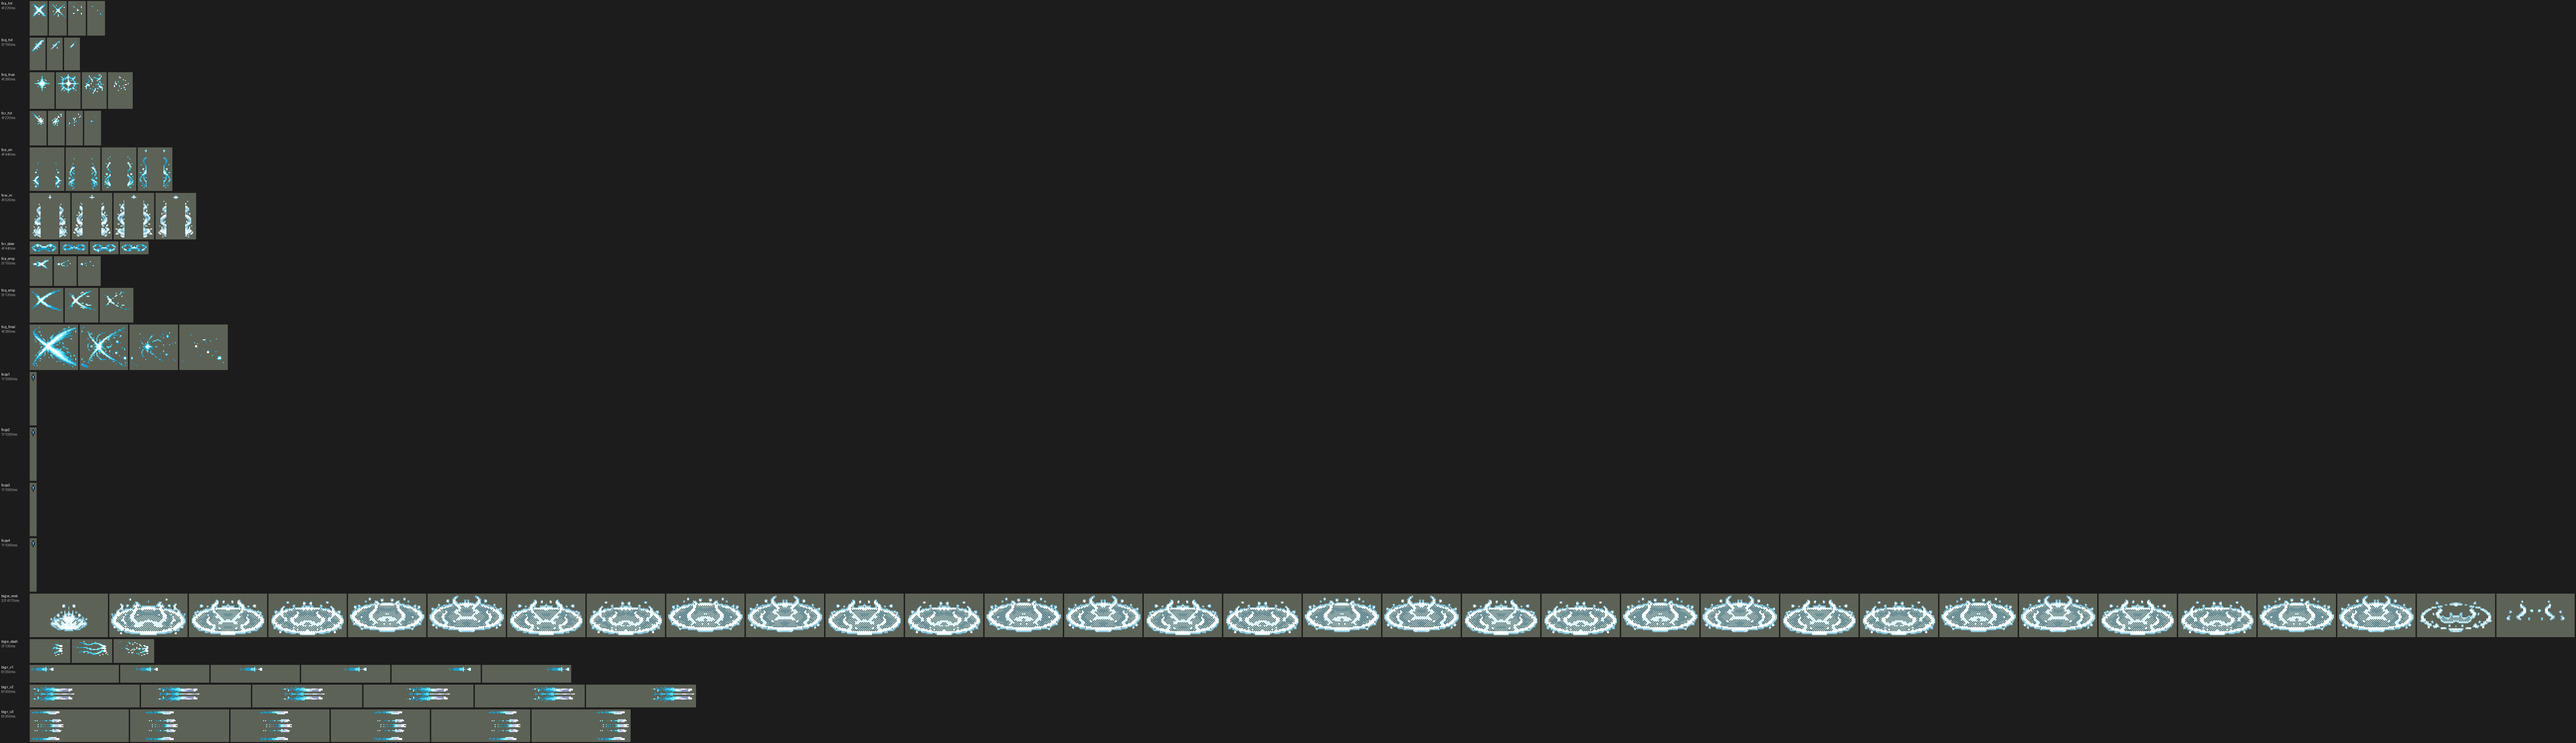
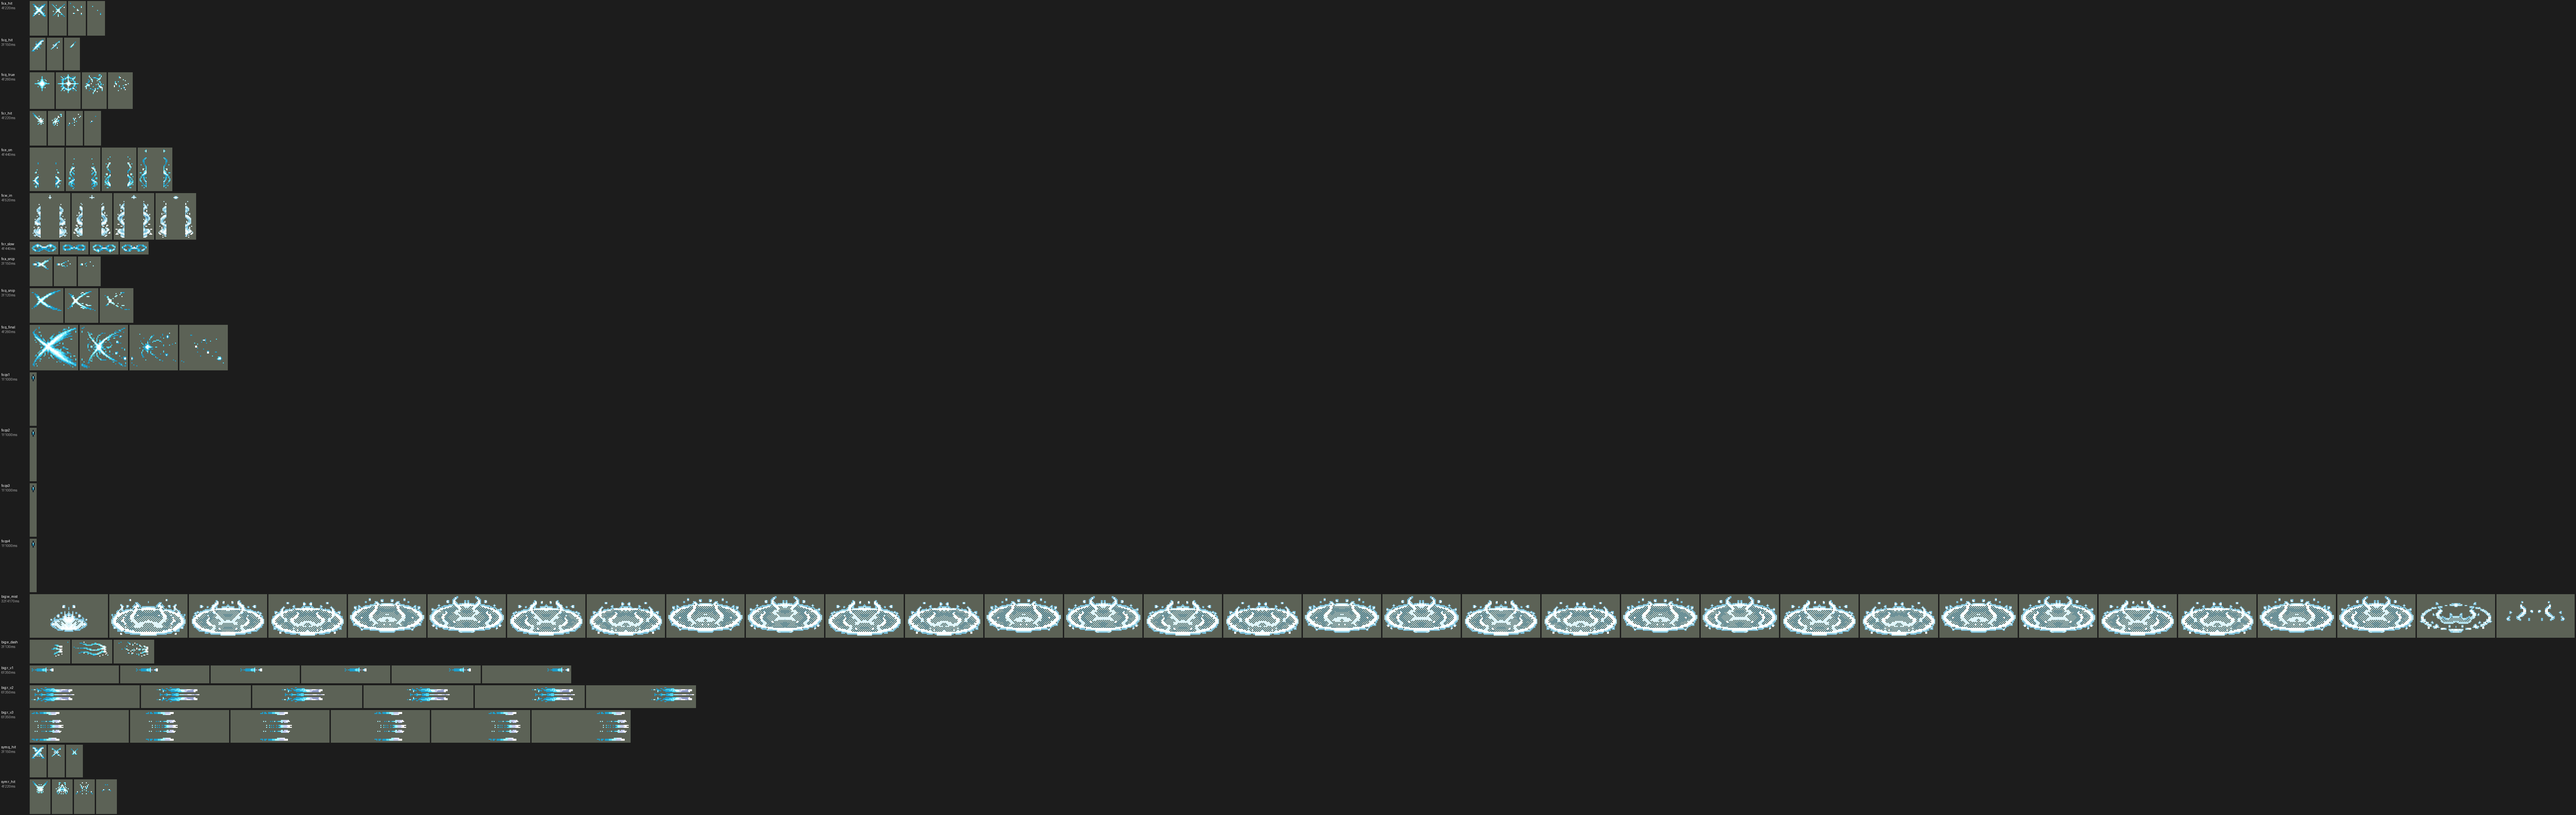
Gwen red side: Q's and R's hits made left-right symmetric (0.74.2)
「红色蓝色方没有技能特效颠倒的问题吧」: Q's hit (a / slash) and R's (needles trailing in from the upper left) showed
where the blow came from and the client never mirrors them, so on the red side they pointed the wrong way. The
user's pick 「只改 R 和 Q」: tools/fix/mirror_union_fx.py composites each frame over its mirror into league_gwen_sym;
build_gwen.build() binds them (the add-on copy too); previews use them.

Changed region(s): [[0.0, 0.7146, 1.0, 1.0], [0.0, 0.0932, 0.0934, 0.4971], [0.0, 0.0311, 0.0311, 0.0621]]

diff --git a/tools/kit/build_gwen.py b/tools/kit/build_gwen.py
@@ -31,6 +31,7 @@ and the data pack keeps the closest it can read):
 import argparse
 import json
 import os
+import sys
 
 HERE = os.path.dirname(os.path.abspath(__file__))
 REPO = os.path.normpath(os.path.join(HERE, "..", ".."))
@@ -38,6 +39,8 @@ OUT = os.path.join(REPO, "league", "champion", "league_gwen.data_champion")
 ID = "league_gwen"
 FX = "asset/league/effects/league_gwen_fx"
 BIG = "asset/league/effects/league_gwen_big"
+sys.path.insert(0, os.path.join(REPO, "tools", "fix"))
+import mirror_union_fx  # noqa: E402
 
 # Numbers = candidate g4 of the 10-min classic-SDK simulations (tr_sim's kd.py copied to Temp/gw_sim, top lane against
 # fighter, executioner, lancer, pole_warrior, knight and berserker, three lineups, both sides, 24 seeds a batch,
@@ -311,7 +314,7 @@ def build(p):
     views_e = [E("a_hit"), E("q_hit"), E("q_true"), E("r_hit"), E("w_mist", BIG, -1, **LATE)]   # e_dash: in her frames
     views_b = [B_(f"qs{k}", FX, 3) for k in range(1, q_n + 1)] + [B_("e_on", FX, 2), B_("w_in", FX, 2),
                                                                   B_("r_slow", FX, 2)]
-    return {
+    kit = {
         "id": ID, "category": "Assassin", "tags": ["AP", "Magic", "Melee", "Heal"],
         "sprite": f"asset/league/champions/{ID}", "anim_prefix": "",
         "skill_icons": [f"asset/league/icons/{ID}_skill", f"asset/league/icons/{ID}_skill2", f"asset/league/icons/{ID}_ult"],
@@ -322,6 +325,9 @@ def build(p):
         "attack": attack_a, "skill": skill, "skill2": skill2, "ult": ult,
         "view_projectiles": views_p, "view_effects": views_e, "view_buffs": views_b,
     }
+    # the red side: Q's and R's hits show where the blow came from and the client never mirrors them, so they play
+    # from league_gwen_sym (each frame over its mirror, tools/fix/mirror_union_fx.py; assets/source/native/gwen_sym.json)
+    return mirror_union_fx.rebind(kit, "gwen")
 
 
 def nodes(o):

diff --git a/tools/art/preview_gwen.py b/tools/art/preview_gwen.py
@@ -29,7 +29,8 @@ from preview_samira import Me, OnFoe, OnMe  # noqa: E402
 ROOT = os.path.dirname(os.path.dirname(HERE))
 LEAGUE = os.path.join(ROOT, "league")
 CHAMP = os.path.join(LEAGUE, "champions", "league_gwen")
-FX = {n: os.path.join(LEAGUE, "effects", n) for n in ("league_gwen_fx", "league_gwen_big")}
+FX = {n: os.path.join(LEAGUE, "effects", n) for n in ("league_gwen_fx", "league_gwen_big", "league_gwen_sym")}
+SYM = ("q_hit", "r_hit")                         # played from league_gwen_sym (the red side: made left-right symmetric)
 ATK_CD, ATK_DUR, A_HIT = 56, 24, 11                    # atk_cd, atk_dur, the hit tick
 Q_DUR, Q_T0, Q_GAP, Q_FINAL, Q_N = 30, 6, 3, 22, 4
 E_TICK, E_T, W_T = 8, 240, 240
@@ -40,7 +41,7 @@ LINE = 80                                              # r_len 80000
 def showcase(out, z=3, step=40):
     sp = load(CHAMP)
     fx = {k: load(v) for k, v in FX.items()}
-    small, big = fx["league_gwen_fx"], fx["league_gwen_big"]
+    small, big, sym = fx["league_gwen_fx"], fx["league_gwen_big"], fx["league_gwen_sym"]
     W, H = 340, 150
     gy = 100
     x0 = 70
@@ -60,7 +61,7 @@ def showcase(out, z=3, step=40):
         return an
 
     def hit(foe, tag, when):
-        over.append(OnFoe(frames_of(small, tag), when, foe))
+        over.append(OnFoe(frames_of(sym if tag in SYM else small, tag), when, foe))
         foe.flinches.append(when)
 
     marks = []

diff --git a/README.md b/README.md
@@ -122,7 +122,7 @@
 
 ![派克演示：他跑进场，鱼叉砍德莱厄斯；Q 透骨尖钉蓄力：举起的叉刃上聚起幽绿的光，鱼叉扔向身后的盖伦，钩中后把他拉回来，鱼叉收回，盖伦脚下减速；W 幽潭潜行：脚下炸开一圈幽水，E 魅影浪洄：他俯冲穿过德莱厄斯，起点留下一滩水，魅影从水里冲回他身边，晕住德莱厄斯；他转身朝左（红色方的样子）近身戳刺德莱厄斯（Q 秒放，减速）；R 涌泉之恨：德莱厄斯脚下亮起血红的 X，斩下来水刺冲起，德莱厄斯被处决，派克闪到他身上，金币和血红光环炸开（赏金）；最后没人打他时幽水回复灰血](docs/preview/league_pyke_showcase.gif?v=1006pk)
 
-![格温演示：她跑进场，剪了德莱厄斯四下，头顶一个个亮起 Q 层数的小记号；Q 快刀剪乱：身前一个接一个闪过青白色的 X 剪痕，最后一大剪，正中央的白光爆开（真实伤害）；E 断续疾走：拖着丝线跳过德莱厄斯，落到盖伦身后剪他一下，脚下升起一大片圣霭，她身上罩着雾、绕着丝线；她转身朝左（红色方的样子）剪盖伦，R 引针簇射：1 根、3 根、5 根针三波沿直线飞过两人，中间穿插普攻，中针的人脚踝缠上丝线减速，德莱厄斯倒下](docs/preview/league_gwen_showcase.gif?v=1007gw2)
+![格温演示：她跑进场，剪了德莱厄斯四下，头顶一个个亮起 Q 层数的小记号；Q 快刀剪乱：身前一个接一个闪过青白色的 X 剪痕，最后一大剪，正中央的白光爆开（真实伤害）；E 断续疾走：拖着丝线跳过德莱厄斯，落到盖伦身后剪他一下，脚下升起一大片圣霭，她身上罩着雾、绕着丝线；她转身朝左（红色方的样子）剪盖伦，R 引针簇射：1 根、3 根、5 根针三波沿直线飞过两人，中间穿插普攻，中针的人脚踝缠上丝线减速，德莱厄斯倒下](docs/preview/league_gwen_showcase.gif?v=1007gw3)
 ![卡兹克演示：他跑进场，腰间亮着无形威胁的洋红火光，第一爪打出被动、德莱厄斯被减速；Q 品尝恐惧：德莱厄斯身边没有队友，孤立无援的重击；E 跃击跳到身后的盖伦身上，落地的冲击波，接 W 虚空突刺甩出尖刺打中盖伦、减速、自己回血；他转身朝左（红色方的样子）跑回德莱厄斯，再一记孤立的 Q；R 虚空来袭：虚空爆发后隐身（画成半透明），出来一爪带被动，德莱厄斯倒下，E 刷新；最后一次进化](docs/preview/league_khazix_showcase.gif?v=1007kz)
 
 ![布兰德演示：他走进场，朝德莱厄斯扔两个火球；W 烈焰之柱：德莱厄斯脚下亮起一圈火纹，火柱冲天而起，他身上烧起来、头顶亮起一个火苗；E 烈火燃烧：火从德莱厄斯脚下往外烧成一圈，蔓延到后面的盖伦，头顶两个火苗；Q 火焰烙印：火球打中德莱厄斯，他被晕住，头顶三个火苗、脚下的火焰圈开始倒计时，两秒后轰地炸开，盖伦也被炸到；布兰德绕到他们右边转身朝左（红色方的样子）放 R 烈焰风暴：身边卷起火焰，火种打中盖伦，在两人之间弹了五次，每次从上面砸下来，脚下烧起余烬（减速），德莱厄斯倒下](docs/preview/league_brand_showcase.gif?v=1007bd2)
@@ -2789,7 +2789,7 @@ python tools/art/preview_gwen.py
 - 造型：用户给了一张草稿（「你那些都不合格 用这个」），按草稿自己的格子读回到 44 行，每个游戏像素按投票取色（描边和头发的暗线单独算）。脸照 oppi 的画法重画（「眼睛嘴巴不还是奇怪吗？改不好就学隔壁oppi美术的技巧」），后来按用户给的参考图改成上深下浅、左上白色高光、睫毛带眼尾的眼睛（「能不能把这个五官拿过来用 你慢慢手绘」）。剪刀用英雄联盟原版的样子（「我记得格温是大剪刀把？」「你看原版英雄啊」）：一把长长的合拢剪刀从腰后斜到脚边，两个带尖刺的环在身侧，环的孔是爱心（「剪刀孔请用可爱的形状」）。脖子和胸衣照草稿重画（「只剩脖子和身体那里有点怪了」），胸衣改成平涂（「手臂这里颜色都对对齐看了好怪」），身体里不连成线的孤立黑点清掉（「清理一下没用的黑色素」）。头两侧两块比头发暗得多的深紫色后发改成头发的深蓝和蓝（「头像这里一大块是什么？」「像素缺失？」）。试过把头发改成双螺旋马尾，用户要原样（「这发型你还原吧」）。之后「格温的体型能缩小点吗」：用户在 42 / 40 行里选了「A 缩到 42」，剪刀「变 但是武器的孔请两边都一样」。`design_gwen.py` 第 15 步先把剪刀拿下来，身体只删整行（头发 1 行、裙子白边下面的暗色 2 行、袜子 1 行；脸、手臂、头顶的翘发不删），46 → 42 行；剪刀按原来的画法重画，刀刃和连杆按 42/46 缩短，两个环最后画（原来尖刺压掉了下面那个心形孔的一角），两个心形孔一模一样。`rig_gwen.py` 的行号都经 `design_gwen.old_to_new()` 换算，手里的剪刀 30 → 27 格、环也最后画；画进动作帧的剪击、E 拖尾、头顶层数记号的位置重新量过。
 - 动作：Codex 的动作条把手臂硬转 85–90°（变形）、R 和受击就是待机，用户：「有奇怪的地方你帮我修复 灵活运用工具」。`rig_gwen.py` 全部用造型自己的像素摆：手臂是直的、两格粗（肤色上亮下暗、紫手套两格），和造型垂着的手臂一样长；远侧手臂从肩角出来、画在身体下面但压在背后的卷发上，近侧画在身体上面。手里的剪刀每一帧都按造型的画法重画（同样的环、尖刺和刀身，角度不同，不旋转像素），张开时是两片刀刃。普攻、Q、W 手在腰的高度（在肩膀高度时环陷进卷发里），刀身不往地上戳；E 用跑步的腿跳一下；R 左手举起一把三根针、甩过胸口；受击整个人后退；死亡每一帧都绕脚转，倒下时剪刀先还在手里，倒地后躺在脚前面。跑步：腿用造型自己腿的每一行沿胯—膝—脚踝摆，两胯收到身下，交叉步，远侧腿暗一档，落地时身体沉一行；空着的左手和腿反着摆，后面卷发的下半段往后飘一格（「走路时太过于僵硬 没有那种灵性」；整束卷发一起动时头发变形：「头发上 有点变形」）。剪刀的描边在每一帧都保留原样（被清理改掉时剪刀一帧一个样：「上下摆动剪刀变形啊」）。
 - 特效用 Codex 画的 16 张（生图原稿，`import_gwen.py --raw`：每张按格子等分，每个游戏像素取覆盖的原稿像素里最多的颜色，颜色归到包里给每张的色阶——剪刀和针的白青圣光、针的银白、圣霭的淡白蓝；光外圈最暗的一档去掉，Q 层数记号保留描边）。三波针的原稿每帧位置不齐、最后几帧被切掉，改成取最完整的一帧、由脚本沿直线匀速往前移；雾里的护罩和 E 的丝线把她盖白了，中间掏空；地上的圣霭底色太实，隔一格透出地面。
-- 红色方：游戏只会按朝向镜像英雄自己的动作帧、不镜像特效图，所以有朝向的特效全部画进她的动作帧（`gwen_bake.json`）：普攻剪尖的 X、Q 的小剪和最后一大剪、E 的拖尾——技能数据里不再单独播放 E 的拖尾。三波针做成严格上下对称；挂在她身上、地上、敌人脚下的画面做成严格左右对称。演示 GIF 后半段她转身朝左打，就是红色方的样子。
+- 红色方：游戏只会按朝向镜像英雄自己的动作帧、不镜像特效图，所以有朝向的特效全部画进她的动作帧（`gwen_bake.json`）：普攻剪尖的 X、Q 的小剪和最后一大剪、E 的拖尾——技能数据里不再单独播放 E 的拖尾。三波针做成严格上下对称；挂在她身上、地上、敌人脚下的画面做成严格左右对称。演示 GIF 后半段她转身朝左打，就是红色方的样子。后来查红色方（「红色蓝色方没有技能特效颠倒的问题吧」）：Q 的命中是一道「/」斜切、R 的命中是针从左上方飞来的拖尾，红色方她在右边时方向是反的；用户选「只改 R 和 Q」：这两个和自己的镜像叠起来（`tools/fix/mirror_union_fx.py`，表 `league_gwen_sym`，Q 成 X、R 成从两边来的 V），`build_gwen.py` 生成时就指向它，附加包的副本也一样；普攻的 X 和 Q 真伤的星光不动。
 
 逐帧预览：[`docs/preview/league_gwen_frames.png`](docs/preview/league_gwen_frames.png)，特效：[`docs/preview/league_gwen_effects.png`](docs/preview/league_gwen_effects.png)。
 
